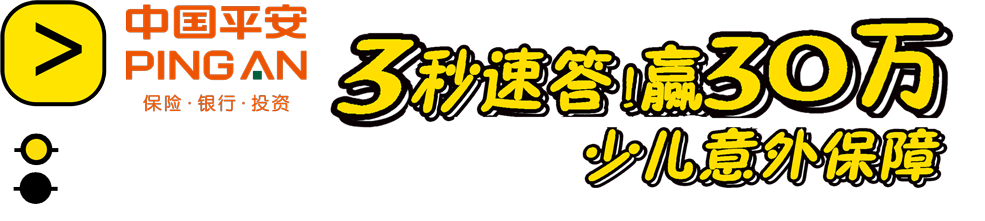
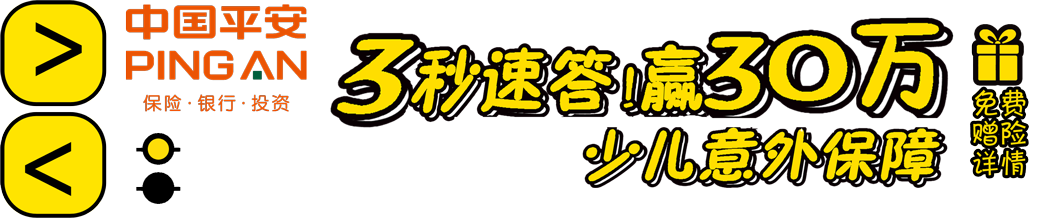
[function] 1.完善页面

diff --git a/project-b/free_child_pc/css/index.css b/project-b/free_child_pc/css/index.css
@@ -1,90 +1,125 @@
-body{
+body {
     background-image: url("../img/background.png");
     background-repeat: no-repeat;
     background-size: cover;
 }
-.header{
+
+.header {
 
 }
-.header-icon{
+
+.header-icon {
     background-image: url("../img/icon.png");
     background-repeat: no-repeat;
-    background-position:-85px 0px;
-    background-size: 700px;
+    background-position: -85px 0px;
+    background-size: 740px;
     width: 150px;
     height: 90px;
-    top:20px;
+    top: 20px;
     margin-left: 250px;
     position: absolute;
 }
-.container{
+
+.out-container {
     display: block;
     margin: 0 auto;
+    width: 1020px;
+}
+
+.container {
+    display: block;
     width: 900px;
     height: 700px;
+    float: left;
 }
-.content{
-    margin-top: 65px;
+
+.content {
+    margin-top: 50px;
 }
-.banner-text{
+
+.banner-text {
     background-image: url("../img/icon.png");
     background-repeat: no-repeat;
-    background-position:-257px -10px;
-    background-size: 800px;
+    background-position: -257px -10px;
+    background-size: 840px;
     width: 520px;
     height: 145px;
     margin-left: 80px;
 }
-.tv{
+
+.tv {
     background-image: url("../img/tv.png");
     background-repeat: no-repeat;
     background-size: 600px;
-    width:600px;
-    height:400px;
+    width: 600px;
+    height: 400px;
     margin-left: 10px;
 }
-.left-side{
+
+.left-side {
     float: left;
     margin-top: 40px;
     margin-left: 10px;
 }
-.right-side{
+
+.right-side {
     float: left;
     background-image: url("../img/ques.png");
     background-repeat: no-repeat;
     background-size: 260px;
-    width:260px;
-    height:600px;
+    width: 260px;
+    height: 600px;
     margin-left: 1px;
 }
-.left-foward{
+
+.left-border {
+    display: block;
+    width: 60px;
+    height: 700px;
     float: left;
-    background-image: url("../img/icon.png");
-    background-repeat: no-repeat;
-    background-size: 500px;
-    width:55px;
-    height:55px;
-    margin: auto;
-    position: absolute;
 }
-.right-foward{
-    float: left;
+
+.left-foward {
     background-image: url("../img/icon.png");
     background-repeat: no-repeat;
-    background-size: 500px;
-    width:55px;
-    height:55px;
-    margin: auto;
-    position: absolute;
+    background-size: 545px;
+    background-position: 0px -57px;
+    width: 58px;
+    height: 58px;
+    display: block;
+    margin-top: 350px;
 }
-.tips-icon{
+
+.right-border {
+    display: block;
+    width: 60px;
+    height: 700px;
+    float: right;
+}
+
+.right-foward {
+    background-image: url("../img/icon.png");
+    background-repeat: no-repeat;
+    background-size: 545px;
+    width: 58px;
+    height: 58px;
+    margin-top: 350px;
+    display: block;
+}
+
+.tips-icon {
     float: left;
     background-image: url("../img/icon.png");
     background-repeat: no-repeat;
-    background-size: 500px;
-    background-position: -100px 0px;
-    width:55px;
-    height:55px;
-    margin: auto;
+    background-size: 700px;
+    background-position: -648px 0px;
+    width: 50px;
+    height: 130px;
+    margin-top: 65px;
+}
+.footer{
+    display: block;
     position: absolute;
+    top: 0px;
+    margin-top: 500px;
 }

diff --git a/project-b/free_child_pc/html/index.html b/project-b/free_child_pc/html/index.html
@@ -9,29 +9,30 @@
 <div class="header">
     <div class="header-icon"></div>
 </div>
-<div class="container">
-    <a class="left-foward" href="javascript:(0)"></a>
-    <div class="content">
-        <div class="left-side">
-            <div class="banner-text">
-
-            </div>
-            <div class="tv">
-
-            </div>
-        </div>
-        <div class="right-side">
-
-        </div>
+<div class="out-container">
+    <div class="left-border">
+        <a class="left-foward" href="javascript:(0)"></a>
     </div>
-    <a class="tips-icon"></a>
-    <a class="right-foward"></a>
-    <!--<ul class="page">-->
+    <div class="container">
+
+        <div class="content">
+            <div class="left-side">
+                <div class="banner-text"></div>
+                <div class="tv"></div>
+            </div>
+            <div class="right-side"></div>
+        </div>
+        <!--<ul class="page">-->
         <!--<li></li>-->
-    <!--</ul>-->
+        <!--</ul>-->
+    </div>
+    <div class="right-border">
+        <a class="tips-icon" href="javascript:(0)"></a>
+        <a class="right-foward" href="javascript:(0)"></a>
+    </div>
 </div>
-<div>
---------------------
+<div class="footer">
+    <div style="border-bottom:1px dashed #000000;width: 80%"></div>
 </div>
 </body>
 </html>
